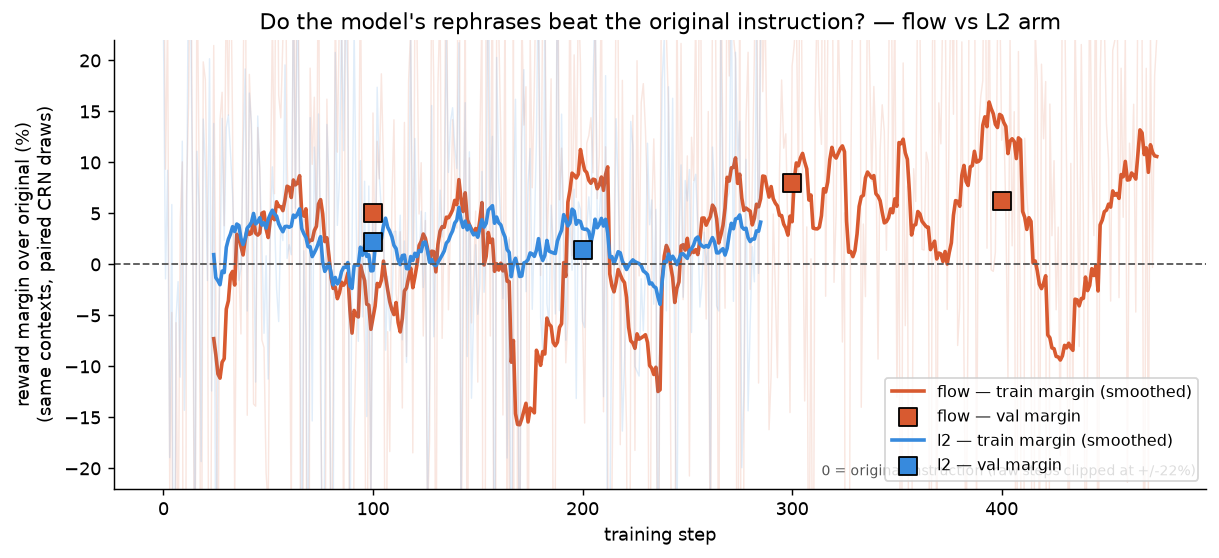
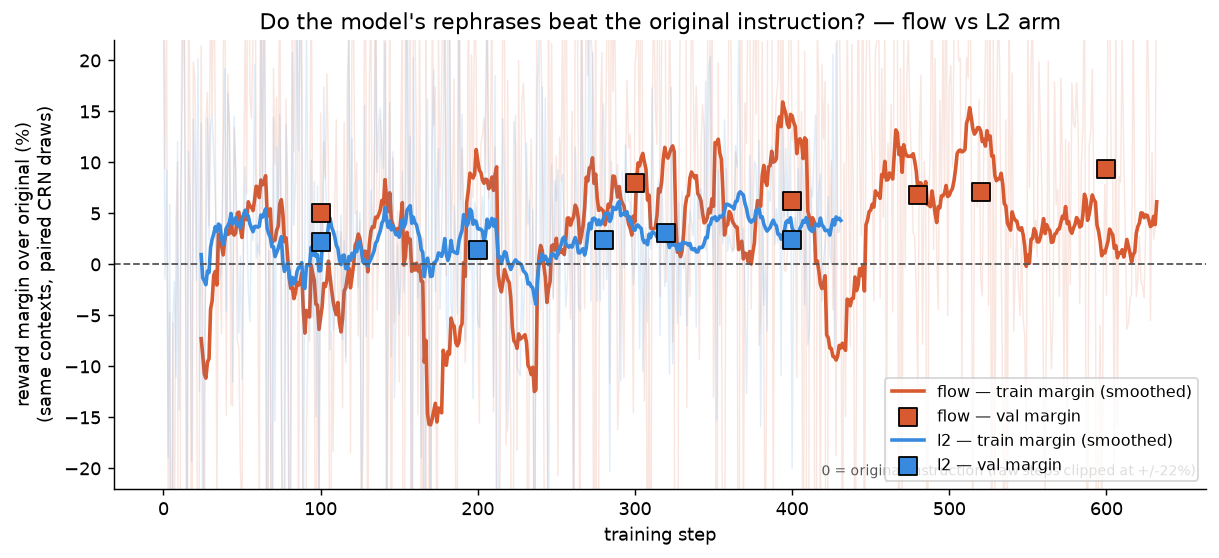
fix best_val-margin migration off-by-inclusion (seeded bar from current val -> strictly-greater test dropped flow@600)

Changed region(s): [[0.1247, 0.0609, 0.9664, 0.9444], [0.7482, 0.853, 0.8417, 0.9444], [0.904, 0.8835, 0.9352, 0.914]]

diff --git a/src/phrase_rl/phase2_train.py b/src/phrase_rl/phase2_train.py
@@ -756,8 +756,12 @@ def train_loop(model, processor, gate, optimizer, trainable, train_df, val_df,
             if val["mean_reward"] is not None and val.get("mean_orig_reward") is not None:
                 margin = val["mean_reward"] - val["mean_orig_reward"]
             if "best_val_margin" not in state:  # migrate old checkpoints: seed from history
+                # EXCLUDE the val being processed (it was appended to history above) —
+                # otherwise it seeds a bar equal to itself and fails the strictly-greater
+                # test, silently dropping the checkpoint (bug: flow@600, 2026-07-10)
                 hist = [v["mean_reward"] - v["mean_orig_reward"] for v in state.get("val_history", [])
-                        if v.get("mean_reward") is not None and v.get("mean_orig_reward") is not None]
+                        if v.get("mean_reward") is not None and v.get("mean_orig_reward") is not None
+                        and v.get("step") != step + 1]
                 state["best_val_margin"] = max(hist) if hist else None
             if margin is not None and (
                     state["best_val_margin"] is None or margin > state["best_val_margin"]):
